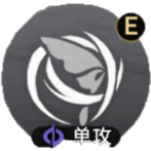
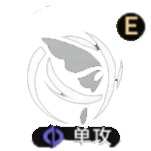
对技能和人物的图标进行了一些润色，尝试了各种方式的画图

diff --git a/StarRail/MainWidget.cpp b/StarRail/MainWidget.cpp
@@ -19,6 +19,11 @@ MainWidget::MainWidget(QWidget *parent)
     initWindow();   //初始化窗口
 }
 
+void MainWidget::initRole()
+{
+    jiachong = new Jiachong();
+}
+
 void MainWidget::initWindow()
 {
     //设置窗口大小
@@ -28,19 +33,26 @@ void MainWidget::initWindow()
     //设置场景
     QGraphicsScene* scene = new QGraphicsScene();
 
-    //设置背景图片
-    scene->setBackgroundBrush(QBrush(QPixmap(":/Image/BK2.png")));
+    //初始化人物测试
+//    xing = new Xing();
 
+    //设置视图
     GameView.setSceneRect(QRect(0,0,GAME_WIDTH,GAME_HEIGHT));
+    //设置场景
     Scene.setSceneRect(QRect(0,0,GAME_WIDTH,GAME_HEIGHT));
+    //设置背景图片
     Background1.setPixmap(QPixmap(":/Image/BK2.png"));
-    test1.setPixmap(QPixmap(":/Image/StarRail.ico"));
+    test1.setPixmap(QPixmap(":/Image/Xing.png"));
 
     //图片元素添加到场景
     Scene.addItem(&Background1);
     //添加人物
-//    Scene.addItem(xing);
-    Scene.addItem(&test1);
+
+//    Scene.addItem(&test1);
+    Scene.addItem(&xing);
+    xing.show();
+    xing.setFlag(QGraphicsItem::ItemIgnoresTransformations);
+
     //场景添加到视图 or 设置视图场景
     GameView.setScene(&Scene);
     //设置视图的父亲
@@ -65,12 +77,6 @@ void MainWidget::initWindow()
     this->skillBbtn->setFlat(true);
     this->skillBbtn->setFocusPolicy(Qt::NoFocus);
     this->skillBbtn->move(width()/3,height()/3);
-}
-
-void MainWidget::initRole()
-{
-    xing = new Xing();
-    jiachong = new Jiachong();
 }
 
 void MainWidget::paintEvent(QPaintEvent *event)

diff --git a/StarRail/Xing.cpp b/StarRail/Xing.cpp
@@ -4,6 +4,7 @@
 Xing::Xing():Hero("星",100,15,5,1)
 {
     this->setPixmap(QPixmap(":/Image/Xing.png"));   // 设置图像
+
 }
 
 void Xing::skillA(Role* p)

diff --git a/StarRail/MainWidget.h b/StarRail/MainWidget.h
@@ -39,7 +39,7 @@ private:
     QVBoxLayout* vboxlayout;
 
     //testHero
-    Xing* xing;
+    Xing xing;
 
     //testEnemy
     Jiachong* jiachong;
